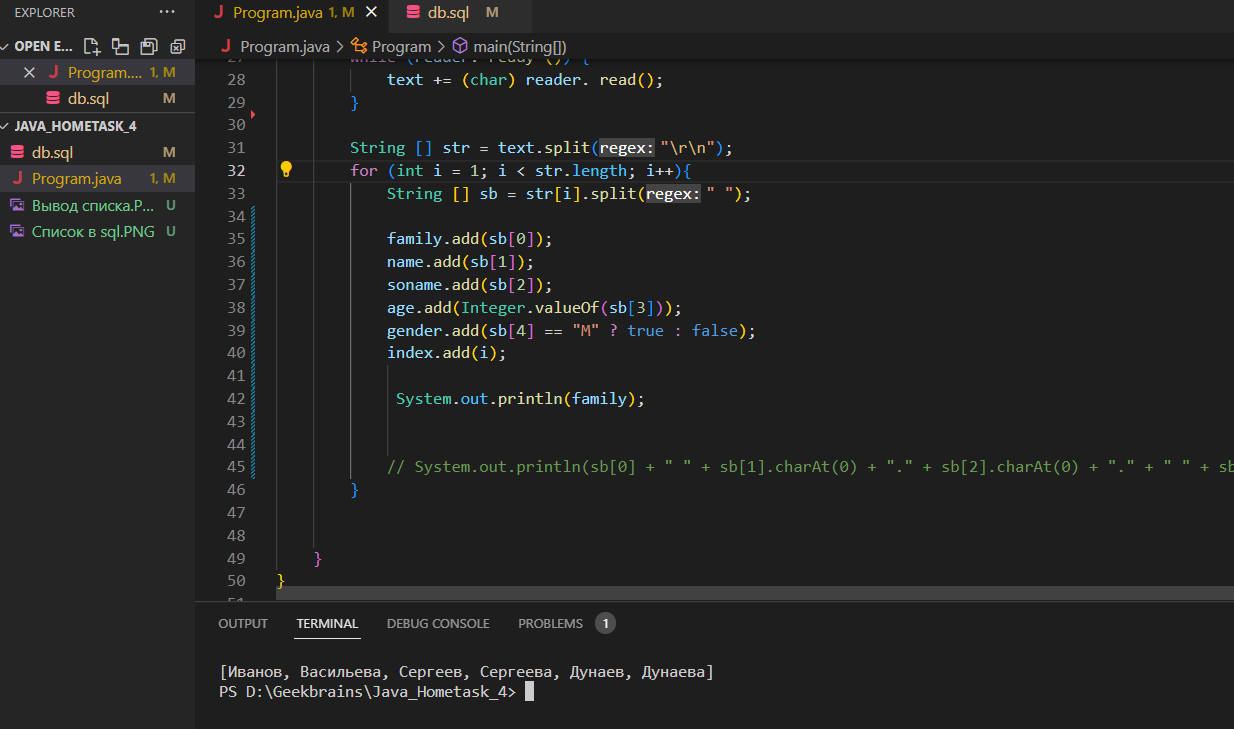
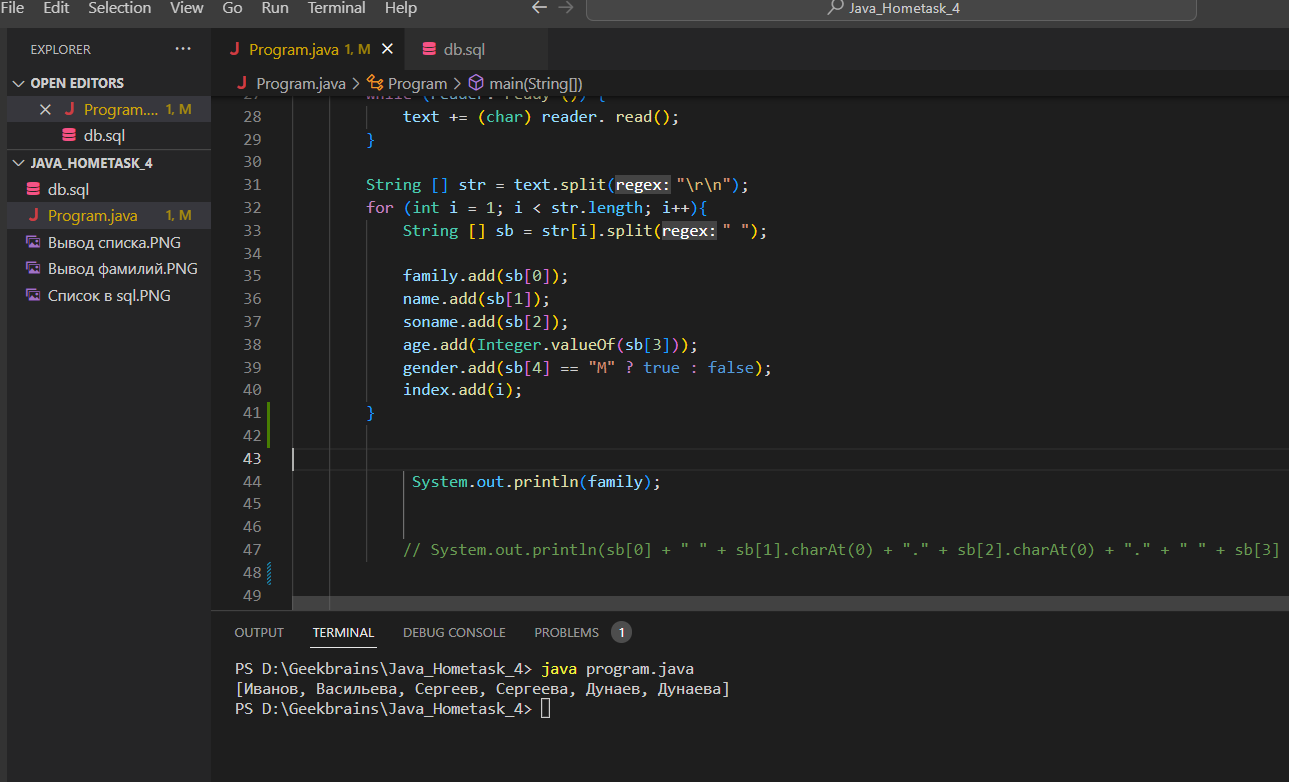
Add 'reader close'

diff --git a/Program.java b/Program.java
@@ -8,6 +8,7 @@
 import java.io.FileReader;
 import java.io.IOException;
 import java.util.ArrayList;
+// import java.util.Comparator;
 import java.util.LinkedList;
 
 public class Program
@@ -27,26 +28,46 @@ public class Program
         while (reader. ready ()) {
             text += (char) reader. read();
         }
-        
+        reader.close();
         String [] str = text.split("\r\n");
         for (int i = 1; i < str.length; i++){
             String [] sb = str[i].split(" ");
 
-            family.add(sb[0]);
-            name.add(sb[1]);
-            soname.add(sb[2]);
+            family.add(sb[0] + " ");
+            name.add(sb[1].substring(0, 1) + ".");
+            soname.add(sb[2].substring(0, 1) + "." + " ");
             age.add(Integer.valueOf(sb[3]));
             gender.add(sb[4] == "M" ? true : false);
             index.add(i);
-
-             System.out.println(family); 
-
-
-            // System.out.println(sb[0] + " " + sb[1].charAt(0) + "." + sb[2].charAt(0) + "." + " " + sb[3] + " " + sb[4]);
         }
         
+        // new *
+        //index. sort(new Comparator<Integer>() {
+        //   new *
+        //   @Override
+        //   public int compare(Integer o1, Integer o2)  {
+        //       return o2-o1;
+        //   }        
+        //});
 
+        for (int i = 0; i < index.size(); i++){
+            System.out.printf(family.get(i));
+            System.out.printf(name.get(i));
+            System.out.printf(soname.get(i));
+            System.out.printf(age.get(i).toString());
+            System.out.printf((gender.get(i) ? "M" : "Ж"));
+            System.out.println();
+        }
+
+            // System.out.println(family); 
+
+            // System.out.println(sb[0] + " " + sb[1].charAt(0) + "." + sb[2].charAt(0) + "." + " " + sb[3] + " " + sb[4]);
+        
     }
+    
 }
+
+    
+
 
    
